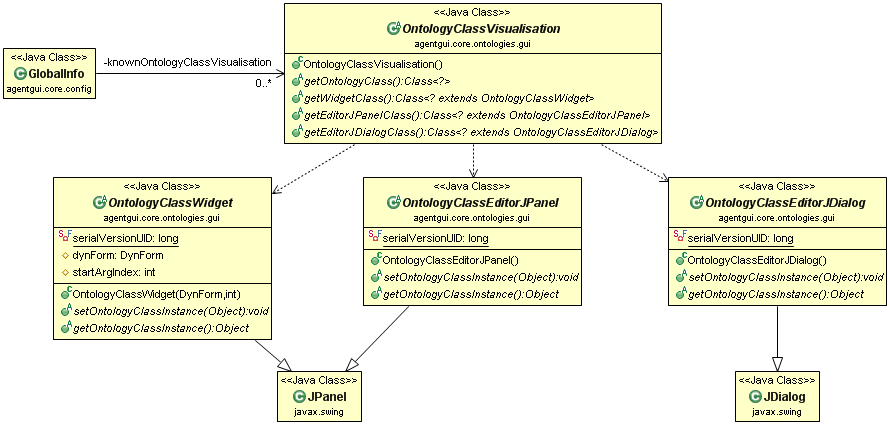
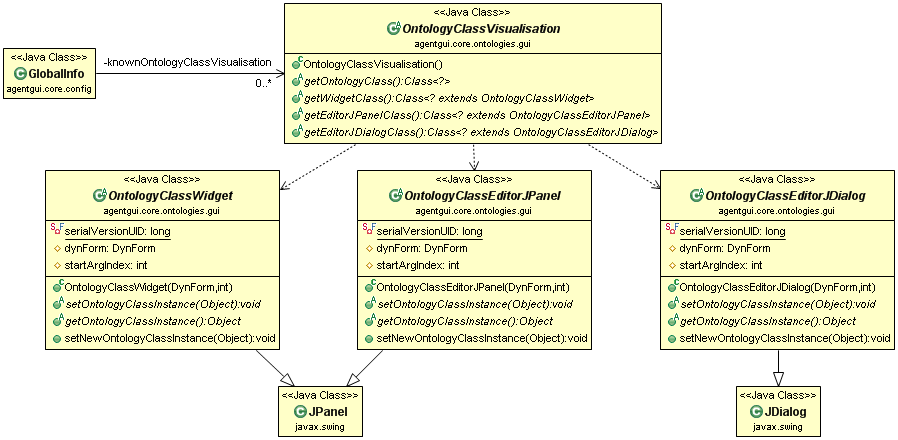
Introduced the OntologyClassVisualisation as a general concept for the visualisation of ontology classes
git-svn-id: svn://project.agent-hygrid.net/agentgui/trunk/AgentGUI@1394 014e83ad-c670-0410-b1a0-9290c87bb784

diff --git a/src/agentgui/core/ontologies/gui/OntologyClassEditorJDialog.java b/src/agentgui/core/ontologies/gui/OntologyClassEditorJDialog.java
@@ -28,6 +28,8 @@
  */
 package agentgui.core.ontologies.gui;
 
+import java.awt.Dimension;
+
 import javax.swing.JDialog;
 
 /**
@@ -39,6 +41,29 @@ public abstract class OntologyClassEditorJDialog extends JDialog {
 
 	private static final long serialVersionUID = -2371432709285440820L;
 
+	protected DynForm dynForm = null;  //  @jve:decl-index=0:
+	protected int startArgIndex = -1;
+	
+	
+	/**
+	 * Instantiates a new ontology class widget.
+	 *
+	 * @param dynForm the current DynForm
+	 * @param startArgIndex the start arg index
+	 */
+	public OntologyClassEditorJDialog(DynForm dynForm, int startArgIndex) {
+		super();
+		this.dynForm = dynForm;
+		this.startArgIndex = startArgIndex;
+		
+		this.dynForm.save(true);
+		Object[] startArgs = this.dynForm.getOntoArgsInstance();
+		Object newOntologyClassInstance =  startArgs[this.startArgIndex];
+		this.setOntologyClassInstance(newOntologyClassInstance);
+		
+		this.setSize(new Dimension(315, 250));
+	}
+	
 	/**
 	 * Sets the ontology class instance.
 	 * @param chart the new ontology class instance
@@ -49,5 +74,15 @@ public abstract class OntologyClassEditorJDialog extends JDialog {
 	 * @return the current ontology class instance
 	 */
 	public abstract Object getOntologyClassInstance();
+	
+	/**
+	 * Sets the new ontology class instance to the DynForm.
+	 * @param newOntologyClassInstance the new new ontology class instance
+	 */
+	public void setNewOntologyClassInstance(Object newOntologyClassInstance) {
+		Object[] startArgs = this.dynForm.getOntoArgsInstance();
+		startArgs[this.startArgIndex] = newOntologyClassInstance;
+		this.dynForm.setOntoArgsInstance(startArgs);
+	}
 	
 }

diff --git a/src/agentgui/core/ontologies/gui/OntologyClassEditorJPanel.java b/src/agentgui/core/ontologies/gui/OntologyClassEditorJPanel.java
@@ -28,6 +28,8 @@
  */
 package agentgui.core.ontologies.gui;
 
+import java.awt.Dimension;
+
 import javax.swing.JPanel;
 
 /**
@@ -39,6 +41,29 @@ public abstract class OntologyClassEditorJPanel extends JPanel {
 
 	private static final long serialVersionUID = -2371432709285440820L;
 
+	protected DynForm dynForm = null;  //  @jve:decl-index=0:
+	protected int startArgIndex = -1;
+	
+	
+	/**
+	 * Instantiates a new ontology class editor JPanel.
+	 *
+	 * @param dynForm the dyn form
+	 * @param startArgIndex the start arg index
+	 */
+	public OntologyClassEditorJPanel(DynForm dynForm, int startArgIndex) {
+		super();
+		this.dynForm = dynForm;
+		this.startArgIndex = startArgIndex;
+		
+		this.dynForm.save(true);
+		Object[] startArgs = this.dynForm.getOntoArgsInstance();
+		Object newOntologyClassInstance =  startArgs[this.startArgIndex];
+		this.setOntologyClassInstance(newOntologyClassInstance);
+		
+		this.setSize(new Dimension(315, 250));
+	}
+	
 	/**
 	 * Sets the ontology class instance.
 	 * @param chart the new ontology class instance
@@ -50,4 +75,13 @@ public abstract class OntologyClassEditorJPanel extends JPanel {
 	 */
 	public abstract Object getOntologyClassInstance();
 	
+	/**
+	 * Sets the new ontology class instance to the DynForm.
+	 * @param newOntologyClassInstance the new new ontology class instance
+	 */
+	public void setNewOntologyClassInstance(Object newOntologyClassInstance) {
+		Object[] startArgs = this.dynForm.getOntoArgsInstance();
+		startArgs[this.startArgIndex] = newOntologyClassInstance;
+		this.dynForm.setOntoArgsInstance(startArgs);
+	}
 }

diff --git a/src/agentgui/core/charts/timeseriesChart/gui/TimeSeriesWidget.java b/src/agentgui/core/charts/timeseriesChart/gui/TimeSeriesWidget.java
@@ -143,14 +143,12 @@ public class TimeSeriesWidget extends OntologyClassWidget implements ActionListe
 		Object source = ae.getSource();
 		if (source==jButtonEdit) {
 			
-			this.dynForm.save(true);
-			Object[] startArgs = this.dynForm.getOntoArgsInstance();
-			this.currChart = (TimeSeriesChart) startArgs[this.startArgIndex];
-
 			this.getTimeSeriesChartDialog().setVisible(true);
 			if(! this.getTimeSeriesChartDialog().isCanceled()){
-				startArgs[this.startArgIndex] = ((TimeSeriesOntologyModel)this.getTimeSeriesChartDialog().getModel().getOntologyModel()).getTimeSeriesChart();
-				this.dynForm.setOntoArgsInstance(startArgs);
+				
+				TimeSeriesChart timeSeriesChart = ((TimeSeriesOntologyModel)this.getTimeSeriesChartDialog().getModel().getOntologyModel()).getTimeSeriesChart();
+				this.setNewOntologyClassInstance(timeSeriesChart);
+				
 				if(this.getTimeSeriesChartDialog().getChartThumb() != null){
 					getJButtonEdit().setText("");
 					getJButtonEdit().setIcon(new ImageIcon(this.getTimeSeriesChartDialog().getChartThumb()));

diff --git a/src/agentgui/core/ontologies/gui/OntologyClassWidget.java b/src/agentgui/core/ontologies/gui/OntologyClassWidget.java
@@ -59,6 +59,12 @@ public abstract class OntologyClassWidget extends JPanel {
 		super();
 		this.dynForm = dynForm;
 		this.startArgIndex = startArgIndex;
+		
+		this.dynForm.save(true);
+		Object[] startArgs = this.dynForm.getOntoArgsInstance();
+		Object newOntologyClassInstance =  startArgs[this.startArgIndex];
+		this.setOntologyClassInstance(newOntologyClassInstance);
+		
 		this.setSize(new Dimension(315, 250));
 	}
 	
@@ -75,6 +81,14 @@ public abstract class OntologyClassWidget extends JPanel {
 	public abstract Object getOntologyClassInstance();
 
 	
-	
+	/**
+	 * Sets the new ontology class instance to the DynForm.
+	 * @param newOntologyClassInstance the new new ontology class instance
+	 */
+	public void setNewOntologyClassInstance(Object newOntologyClassInstance) {
+		Object[] startArgs = this.dynForm.getOntoArgsInstance();
+		startArgs[this.startArgIndex] = newOntologyClassInstance;
+		this.dynForm.setOntoArgsInstance(startArgs);
+	}
 	
 }

diff --git a/src/agentgui/core/charts/xyChart/gui/XyWidget.java b/src/agentgui/core/charts/xyChart/gui/XyWidget.java
@@ -138,14 +138,12 @@ public class XyWidget extends OntologyClassWidget implements ActionListener {
 		Object source = ae.getSource();
 		if (source==jButtonEdit) {
 			
-			this.dynForm.save(true);
-			Object[] startArgs = this.dynForm.getOntoArgsInstance();
-			this.currChart = (XyChart) startArgs[this.startArgIndex];
-
 			this.getXyChartDialog().setVisible(true);
 			if(! this.getXyChartDialog().isCanceled()){
-				startArgs[this.startArgIndex] = ((XyOntologyModel)this.getXyChartDialog().getModel().getOntologyModel()).getXyChart();
-				this.dynForm.setOntoArgsInstance(startArgs);
+				
+				XyChart xyChart =  ((XyOntologyModel)this.getXyChartDialog().getModel().getOntologyModel()).getXyChart();
+				this.setNewOntologyClassInstance(xyChart);
+				
 				if(this.getXyChartDialog().getChartThumb() != null){
 					getJButtonEdit().setText("");
 					getJButtonEdit().setIcon(new ImageIcon(this.getXyChartDialog().getChartThumb()));

diff --git a/src/agentgui/core/ontologies/gui/DynForm.java b/src/agentgui/core/ontologies/gui/DynForm.java
@@ -1284,6 +1284,7 @@ public class DynForm extends JPanel {
 			OntologyClassWidget widget = null;
 			
 			try {
+				
 				Class<?>[] conParameter = new Class[2];
 				conParameter[0] = DynForm.class;
 				conParameter[1] = int.class;
@@ -1295,7 +1296,7 @@ public class DynForm extends JPanel {
 				Object[] args = new Object[2];
 				args[0] = this;
 				args[1] = startArgIndex;
-					
+				
 				widget = (OntologyClassWidget) widgetConstructor.newInstance(args);
 
 			} catch (SecurityException e) {
